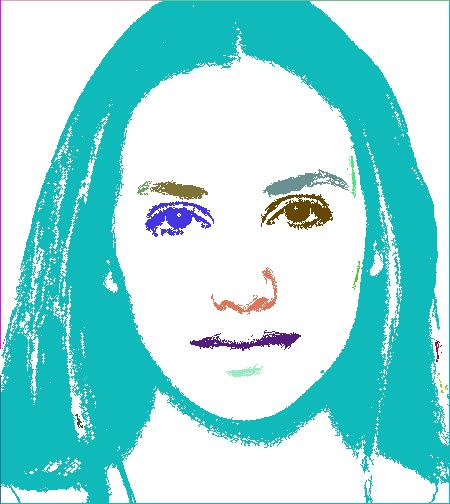
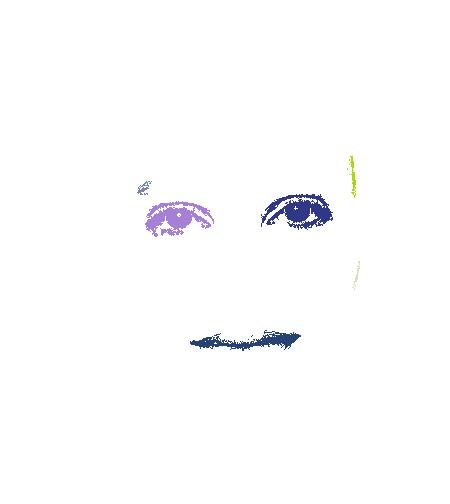
Testing code with new matching algorithm

diff --git a/extract_blocks.py b/extract_blocks.py
@@ -404,7 +404,7 @@ def classifyFace(image_name):
     remove_small_blocks(labeled_im, block_number_coords)
     print(str(len(np.unique(labeled_im)) - 1) + " Connected Components")
 
-    # good_labels = {1, 3}
+    # good_labels = {9, 10, 5, 8, 13, 11}
     # use_only_good_labels(labeled_im, good_labels)
     num_labels = len(np.unique(labeled_im)) - 1
     label_illustration(labeled_im)
@@ -419,9 +419,9 @@ def classifyFace(image_name):
     # print(theta_all)
 
 
-    # blocks = []
-    # for i in range(len(block_lengths)):
-    #     blocks.append(Block(y_bar_all[i], x_bar_all[i], theta_all[i], block_lengths[i]))
-    # print(Matching(blocks))
+    blocks = []
+    for i in range(len(block_lengths)):
+        blocks.append(Block(y_bar_all[i], x_bar_all[i], theta_all[i], block_lengths[i]))
+    print(Matching(blocks))
 
 classifyFace('data/test_face.jpg')
